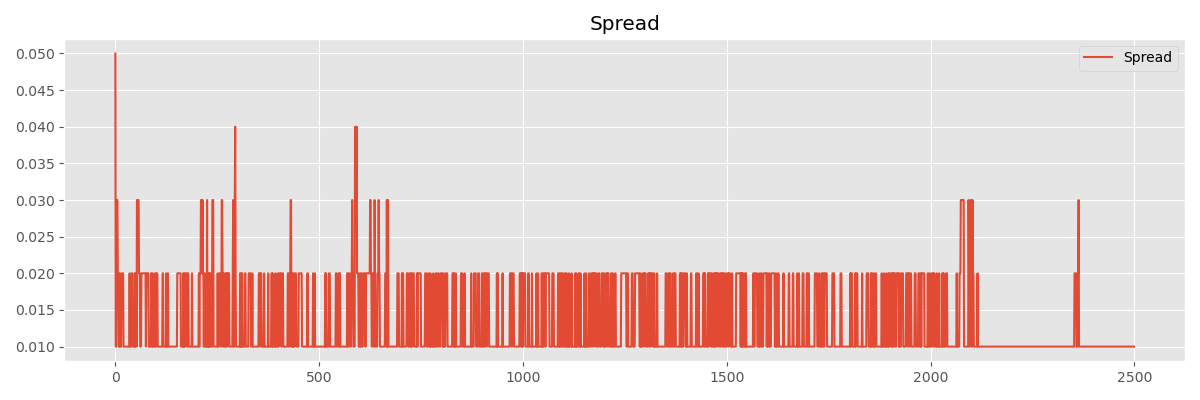
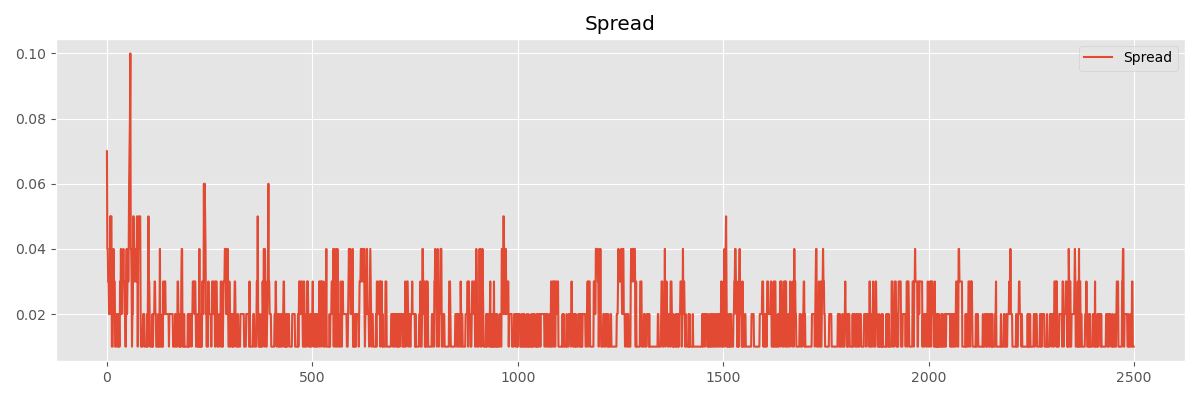
book fix

diff --git a/src/run.py b/src/run.py
@@ -149,7 +149,10 @@ def plot_snapshots(snapshots: list[dict], out_path: str) -> None:
         axes = [axes]
 
     # Fixed half-width in price units across all snapshots
-    tick = snapshots[0]["bids"][0][0] - snapshots[0]["bids"][1][0]
+    try:
+        tick = snapshots[0]["bids"][0][0] - snapshots[0]["bids"][1][0]
+    except IndexError:
+        tick = 0.01
     bar_width = tick * 0.8
     half_width = tick * 12  # controls how many levels are visible — adjust as needed
 
@@ -261,7 +264,7 @@ def run_simulation(book: OrderBook, agents: list, steps: int) -> tuple[pd.DataFr
                         "TakerOrderID": tr.taker_order_id,
                     })
                     trades_this_step.append(tr)
-
+        '''
             # Notify MarketMakerAS of trades on its orders
             mmAS_agent = next((agent for agent in agents if isinstance(agent, MarketMakerAS)), None)
             for trade in trades:
@@ -270,7 +273,7 @@ def run_simulation(book: OrderBook, agents: list, steps: int) -> tuple[pd.DataFr
                     print(f'MarketMakerAS inventory updated to {mmAS_agent.inventory} after trade {trade}\n')
                     inventory_changes += 1 #For debugging and to decide paramters
                     break
-
+        '''
         #print(f'--------------- Trades happening in time {t} is : {trades_this_step} -----------------')
 
         bb, ba = book.best_bid(), book.best_ask()
@@ -325,7 +328,7 @@ def run_simulation(book: OrderBook, agents: list, steps: int) -> tuple[pd.DataFr
         })
 
         if t % 1 == 0:
-            print(f"t={t}, bb={bb:.4f}, ba={ba:.4f}, spread={sp:.4f}, obi={obi:.4f}, bids : {book.top_n_levels('buy', 10)}, asks : {book.top_n_levels('sell', 10)}")
+            print(f"t={t}, bb={bb:.4f}, ba={ba:.4f}, spread={sp:.4f}, obi={obi:.4f}, bids : {book.top_n_levels('buy', 20)}, asks : {book.top_n_levels('sell', 20)}")
 
         if t % 25 == 0:
             print(f"t={t}, bb={bb:.4f}, ba={ba:.4f}, spread={sp:.4f}, obi={obi:.4f}")
@@ -352,8 +355,8 @@ def main() -> None:
 
     #Seed the order book with some initial liquidity and create agents with distinct RNGs for independent behavior
     rng = np.random.default_rng(42)
-    book = OrderBook(tick=0.01, max_depth_levels=10)
-    seed_initial_book(book, best_bid=100.05, best_ask=100.1, levels=5, rng=rng)
+    book = OrderBook(tick=0.01, max_depth_levels=20)
+    seed_initial_book(book, best_bid=100.05, best_ask=100.1, levels=10, rng=rng)
 
     agents = [
         NoiseTrader(trader_id=1, rng=np.random.default_rng(1)),
@@ -361,7 +364,7 @@ def main() -> None:
         NoiseTrader(trader_id=6, rng=np.random.default_rng(6)),
         MarketMaker(trader_id=2, rng=np.random.default_rng(2)),
         InstitutionalTrader(trader_id=3, rng=np.random.default_rng(3)),
-        MarketMakerAS(trader_id=4, rng=np.random.default_rng(4), horizon=1000, A=1, kappa=10, gamma=0.1, sigma=0.05)
+        #MarketMakerAS(trader_id=4, rng=np.random.default_rng(4), horizon=1000, A=1, kappa=10, gamma=0.1, sigma=0.05)
     ]
     
 

diff --git a/src/agents.py b/src/agents.py
@@ -140,7 +140,7 @@ class NoiseTrader(BaseAgent):
 
         self.last_side = side
 
-        qty = int(self.rng.integers(1, 5))
+        qty = int(self.rng.integers(10, 20))
 
         # market order
         if self.rng.random() < self.market_prob:
@@ -149,6 +149,7 @@ class NoiseTrader(BaseAgent):
         # limit order around mid
         mid = book.mid_price()
         if not np.isfinite(mid):
+            print('--------------------------------------- BAD MIND ---------------------------------------------')
             mid = 100.0
 
         tick = book.tick
@@ -305,8 +306,8 @@ class InstitutionalTrader(BaseAgent):
     def __init__(self, trader_id: int, rng: np.random.Generator,
                  participation_rate: float = 0.05,
                  use_iceberg_prob: float = 0.8,
-                 peak_range=(3, 10),
-                 total_range=(20, 60),
+                 peak_range=(30, 50),
+                 total_range=(100, 150),
                  price_mode: str = "join"):  # "join" or "improve"
         super().__init__(trader_id, rng)
         self.participation_rate = participation_rate
